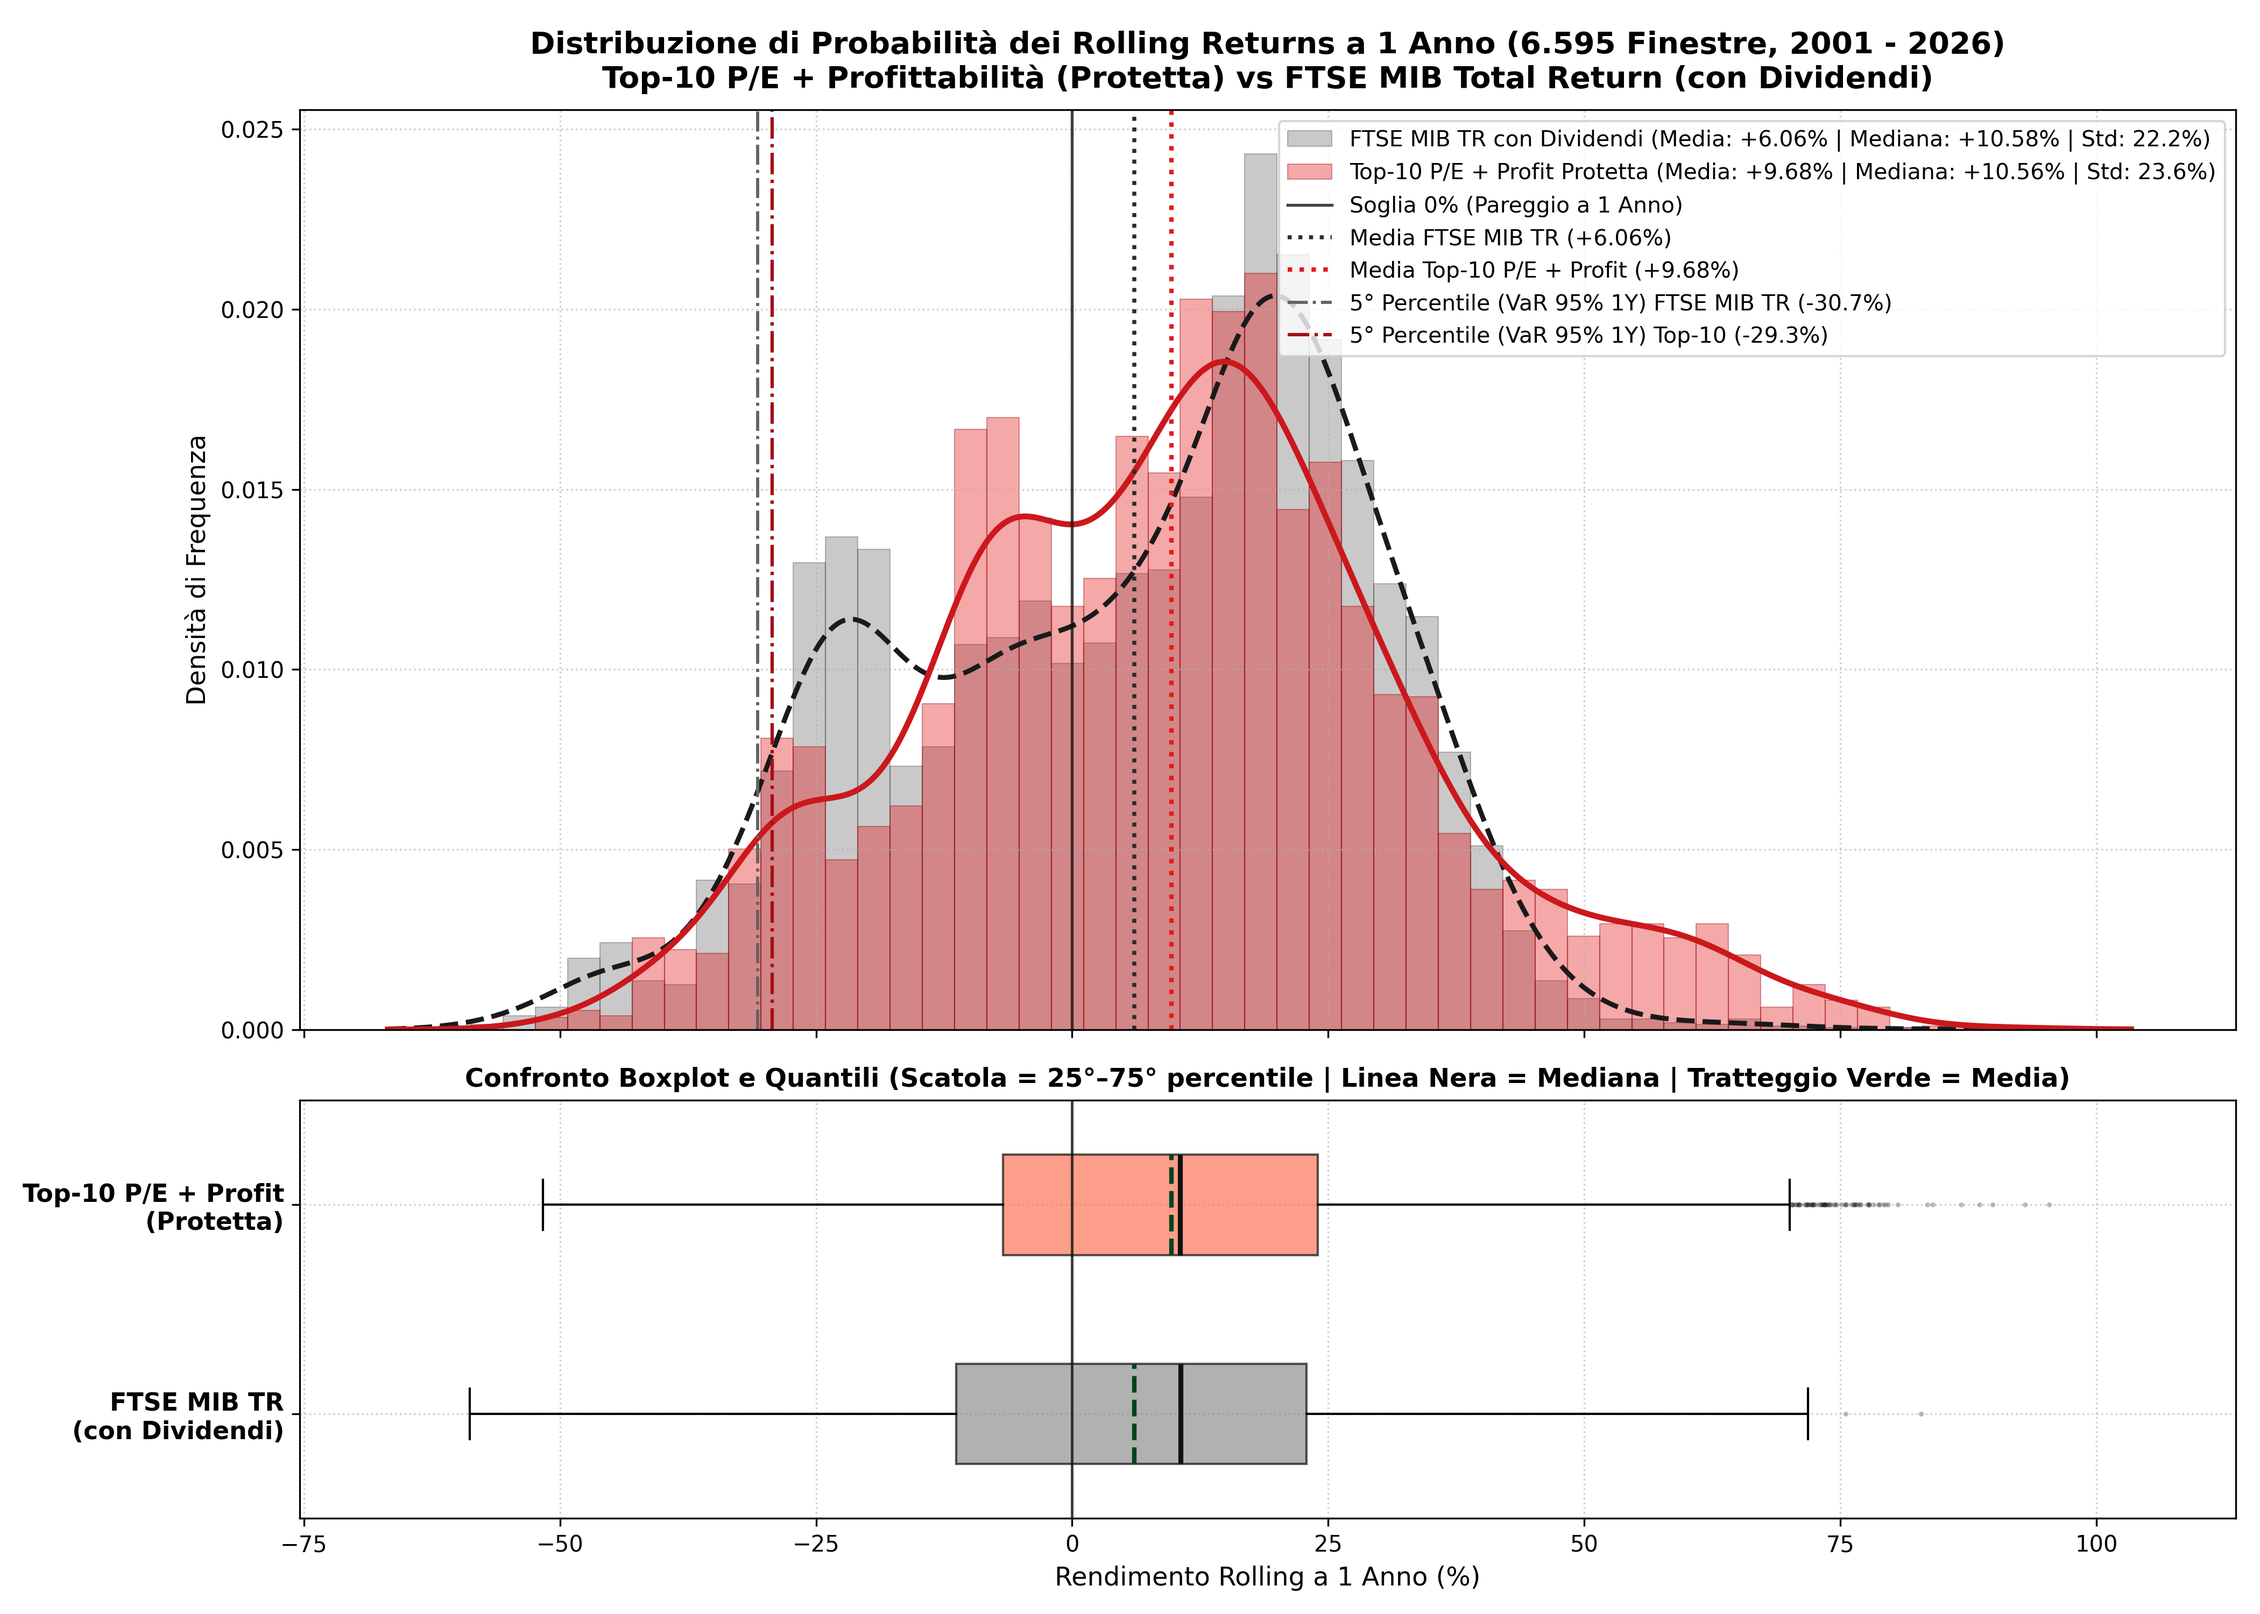
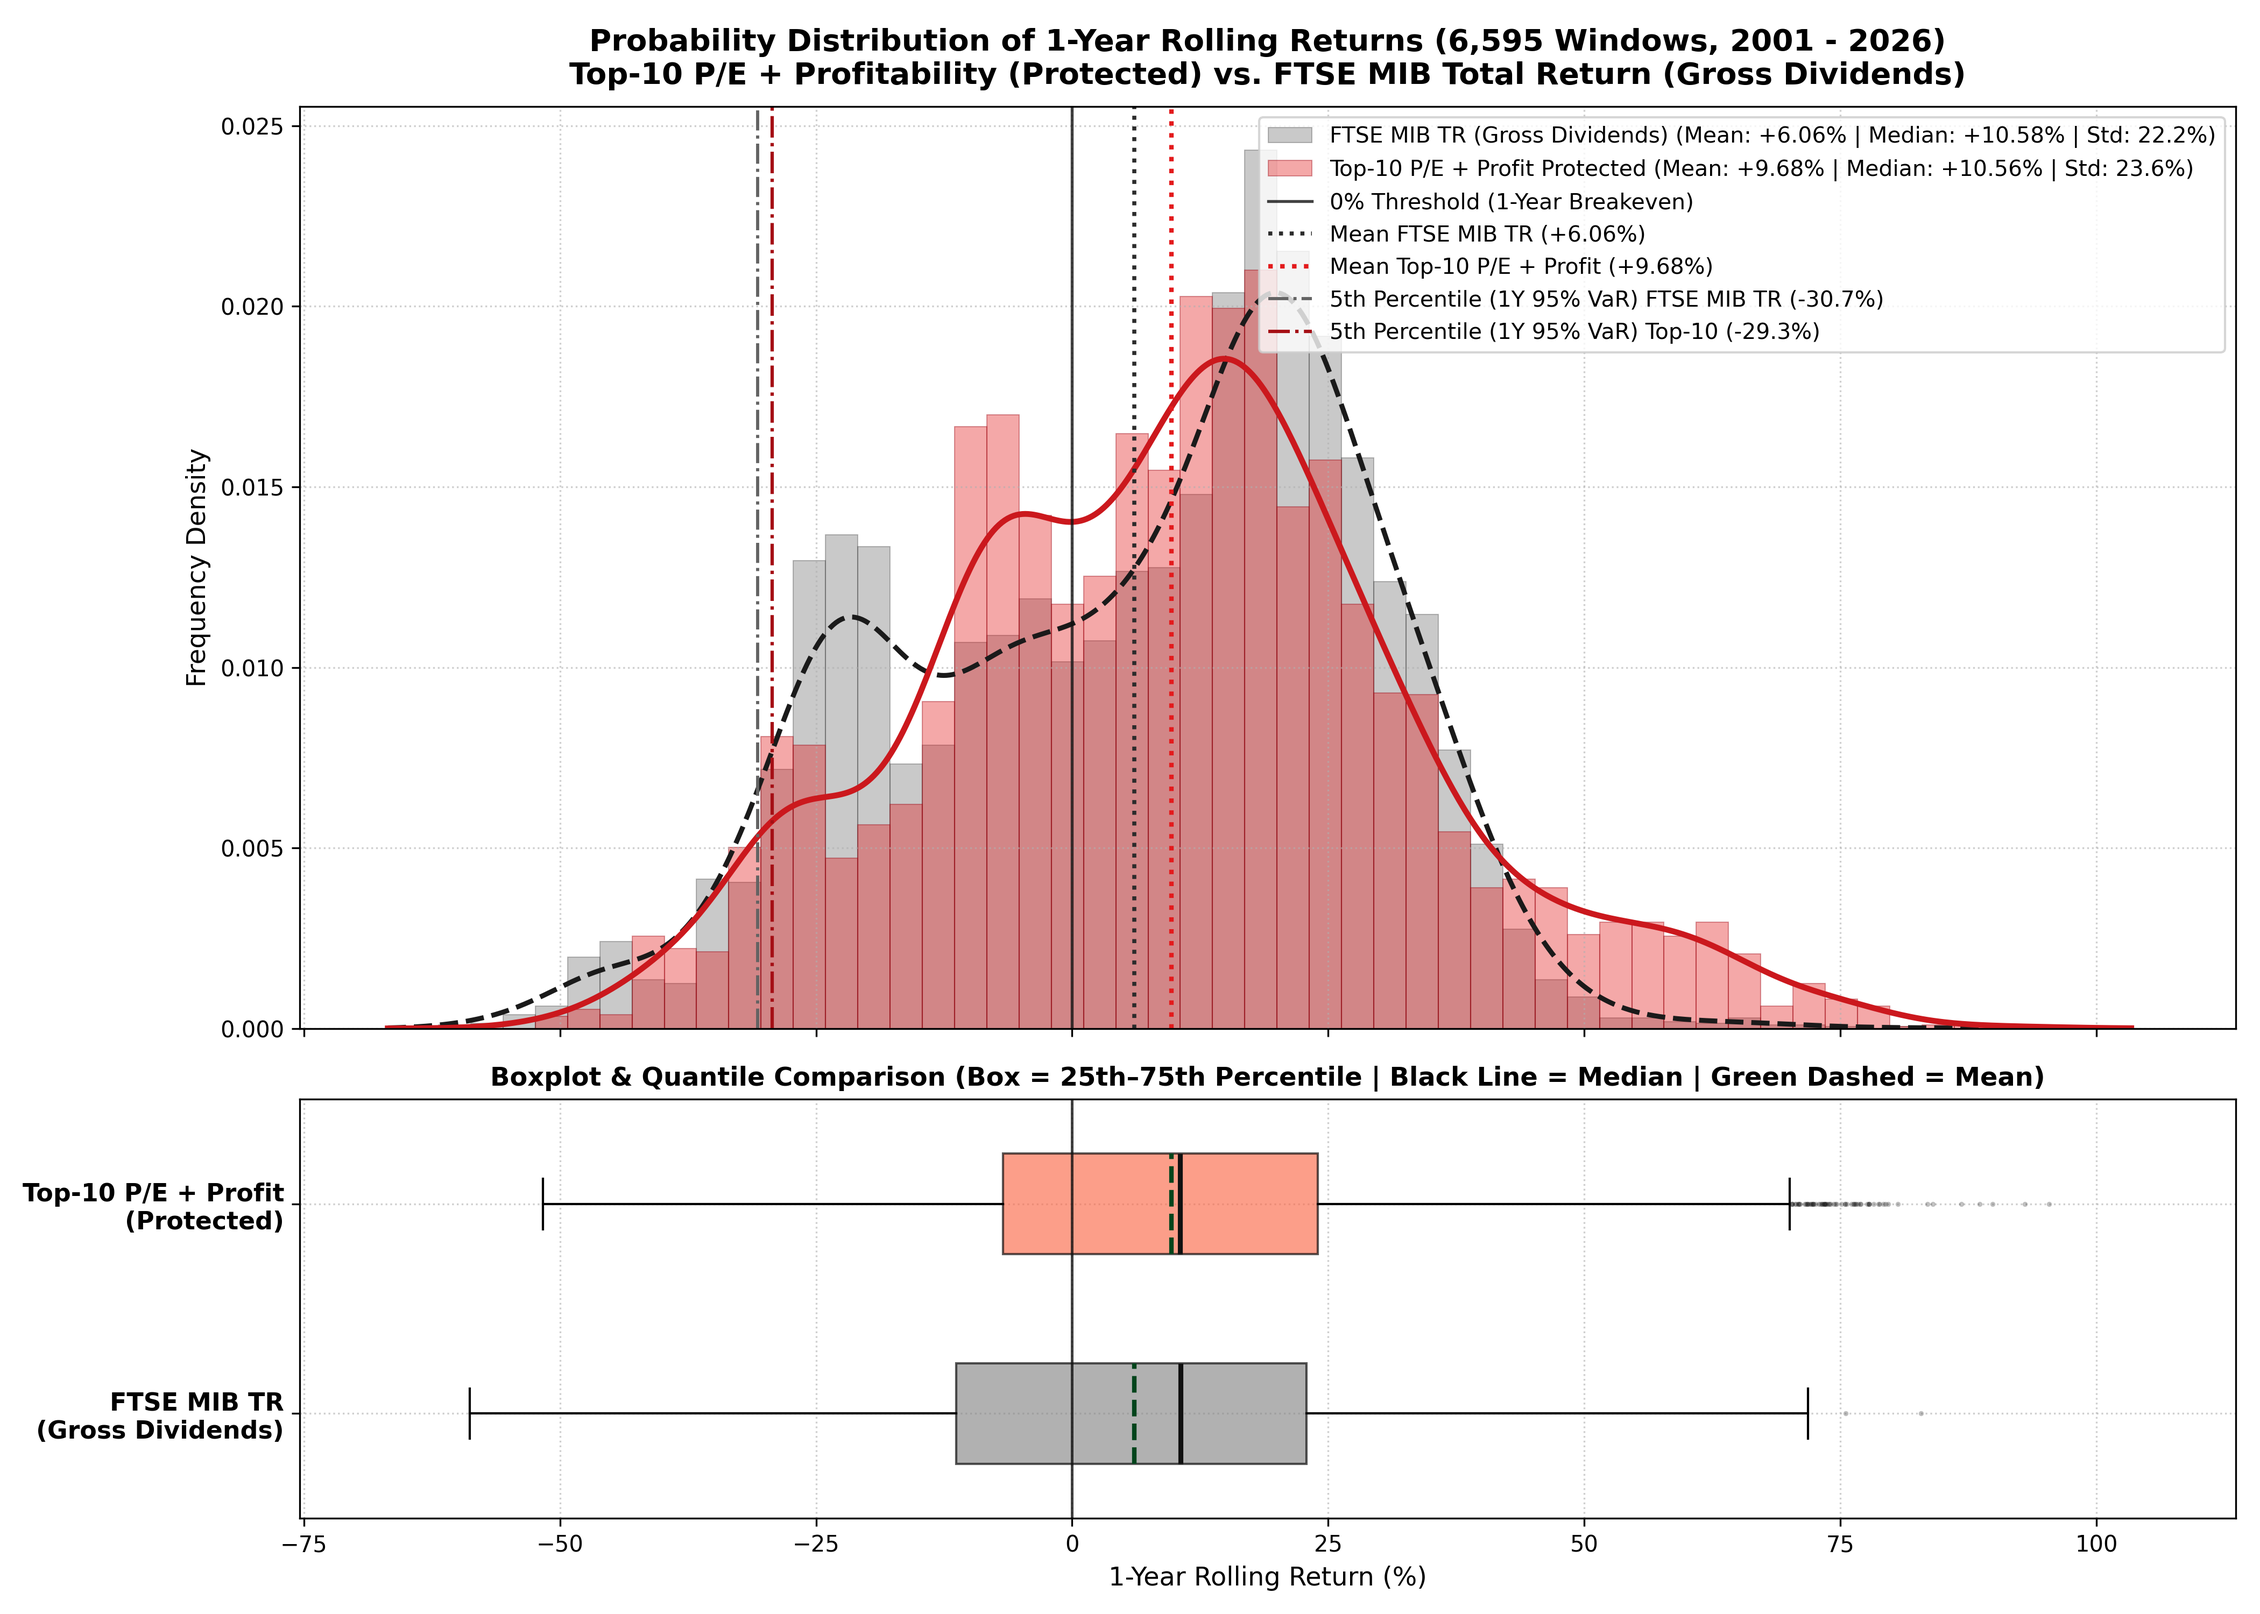
Translate all chart titles, legends and axis labels to English

diff --git a/scripts/06_plot_rolling_returns.py b/scripts/06_plot_rolling_returns.py
@@ -121,7 +121,7 @@ def main():
     ax1.plot(
         roll_bench.index,
         roll_bench.values,
-        label=f"FTSE MIB TR con Dividendi (Media 1Y: {mean_bench:+.1f}% | Finestre Positive: {pos_rate_bench:.1f}%)",
+        label=f"FTSE MIB TR (Gross Dividends) (1Y Mean: {mean_bench:+.1f}% | Positive Windows: {pos_rate_bench:.1f}%)",
         color="#2b2b2b",
         linewidth=1.6,
         linestyle="--",
@@ -130,24 +130,24 @@ def main():
     ax1.plot(
         roll_top10.index,
         roll_top10.values,
-        label=f"Top-10 P/E + Profit Protetta (Media 1Y: {mean_top10:+.1f}% | Finestre Positive: {pos_rate_top10:.1f}%)",
+        label=f"Top-10 P/E + Profit Protected (1Y Mean: {mean_top10:+.1f}% | Positive Windows: {pos_rate_top10:.1f}%)",
         color="#e31a1c",
         linewidth=2.2,
     )
 
     ax1.set_title(
-        "Rolling Returns a 1 Anno (252 Giorni): Top-10 P/E + Profittabilità vs FTSE MIB Total Return (2001 - 2026)",
+        "1-Year Rolling Returns (252 Trading Days): Top-10 Protected vs. FTSE MIB Total Return (2001 - 2026)",
         fontsize=13.5,
         fontweight="bold",
         pad=10,
     )
-    ax1.set_ylabel("Rendimento Rolling 1 Anno (%)", fontsize=11.5)
+    ax1.set_ylabel("1-Year Rolling Return (%)", fontsize=11.5)
     ax1.grid(True, linestyle=":", alpha=0.6)
     ax1.legend(loc="upper left", frameon=True, fontsize=10.5)
 
     # Panel 2: Rolling 1Y Excess Return (Spread = Top-10 - FTSE MIB TR)
     ax2.axhline(0.0, color="#222222", linewidth=1.1, linestyle="-")
-    ax2.axhline(mean_excess, color="#006d2c", linewidth=1.2, linestyle="--", label=f"Spread Medio 1Y: {mean_excess:+.2f}%/anno")
+    ax2.axhline(mean_excess, color="#006d2c", linewidth=1.2, linestyle="--", label=f"1Y Mean Spread: {mean_excess:+.2f}%/yr")
     ax2.plot(excess_1y.index, excess_1y.values, color="#1f78b4", linewidth=1.3, alpha=0.9)
     ax2.fill_between(
         excess_1y.index,
@@ -157,7 +157,7 @@ def main():
         color="#2ca02c",
         alpha=0.35,
         interpolate=True,
-        label=f"Top-10 batte FTSE MIB TR ({win_rate_vs_bench:.1f}% delle finestre 1Y)",
+        label=f"Top-10 beats FTSE MIB TR ({win_rate_vs_bench:.1f}% of 1Y windows)",
     )
     ax2.fill_between(
         excess_1y.index,
@@ -167,16 +167,16 @@ def main():
         color="#d62728",
         alpha=0.30,
         interpolate=True,
-        label=f"FTSE MIB TR batte Top-10 ({100.0 - win_rate_vs_bench:.1f}% delle finestre 1Y)",
+        label=f"FTSE MIB TR beats Top-10 ({100.0 - win_rate_vs_bench:.1f}% of 1Y windows)",
     )
 
     ax2.set_title(
-        f"Extra-Rendimento Rolling 1 Anno (Top-10 meno FTSE MIB TR) — Win Rate: {win_rate_vs_bench:.1f}%",
+        f"1-Year Rolling Excess Return (Top-10 minus FTSE MIB TR) — Win Rate: {win_rate_vs_bench:.1f}%",
         fontsize=12.5,
         fontweight="bold",
     )
-    ax2.set_xlabel("Data", fontsize=11.5)
-    ax2.set_ylabel("Spread Rolling 1Y (%)", fontsize=11.5)
+    ax2.set_xlabel("Date", fontsize=11.5)
+    ax2.set_ylabel("1Y Rolling Spread (%)", fontsize=11.5)
     ax2.grid(True, linestyle=":", alpha=0.6)
     ax2.legend(loc="upper left", frameon=True, fontsize=10)
 
@@ -210,7 +210,7 @@ def main():
         alpha=0.30,
         edgecolor="#2b2b2b",
         linewidth=0.5,
-        label=f"FTSE MIB TR con Dividendi (Media: {mean_bench:+.2f}% | Mediana: {roll_bench.median():+.2f}% | Std: {roll_bench.std():.1f}%)",
+        label=f"FTSE MIB TR (Gross Dividends) (Mean: {mean_bench:+.2f}% | Median: {roll_bench.median():+.2f}% | Std: {roll_bench.std():.1f}%)",
     )
     ax_hist.hist(
         roll_top10.values,
@@ -220,7 +220,7 @@ def main():
         alpha=0.38,
         edgecolor="#99000d",
         linewidth=0.5,
-        label=f"Top-10 P/E + Profit Protetta (Media: {mean_top10:+.2f}% | Mediana: {roll_top10.median():+.2f}% | Std: {roll_top10.std():.1f}%)",
+        label=f"Top-10 P/E + Profit Protected (Mean: {mean_top10:+.2f}% | Median: {roll_top10.median():+.2f}% | Std: {roll_top10.std():.1f}%)",
     )
 
     ax_hist.plot(x_grid, kde_bench, color="#1a1a1a", linewidth=2.2, linestyle="--")
@@ -232,20 +232,20 @@ def main():
     p95_top10 = float(np.percentile(roll_top10.values, 95))
     p95_bench = float(np.percentile(roll_bench.values, 95))
 
-    ax_hist.axvline(0.0, color="#111111", linewidth=1.3, linestyle="-", alpha=0.8, label="Soglia 0% (Pareggio a 1 Anno)")
-    ax_hist.axvline(mean_bench, color="#2b2b2b", linewidth=1.8, linestyle=":", label=f"Media FTSE MIB TR ({mean_bench:+.2f}%)")
-    ax_hist.axvline(mean_top10, color="#e31a1c", linewidth=2.0, linestyle=":", label=f"Media Top-10 P/E + Profit ({mean_top10:+.2f}%)")
-    ax_hist.axvline(p5_bench, color="#636363", linewidth=1.4, linestyle="-.", label=f"5° Percentile (VaR 95% 1Y) FTSE MIB TR ({p5_bench:+.1f}%)")
-    ax_hist.axvline(p5_top10, color="#a50f15", linewidth=1.5, linestyle="-.", label=f"5° Percentile (VaR 95% 1Y) Top-10 ({p5_top10:+.1f}%)")
+    ax_hist.axvline(0.0, color="#111111", linewidth=1.3, linestyle="-", alpha=0.8, label="0% Threshold (1-Year Breakeven)")
+    ax_hist.axvline(mean_bench, color="#2b2b2b", linewidth=1.8, linestyle=":", label=f"Mean FTSE MIB TR ({mean_bench:+.2f}%)")
+    ax_hist.axvline(mean_top10, color="#e31a1c", linewidth=2.0, linestyle=":", label=f"Mean Top-10 P/E + Profit ({mean_top10:+.2f}%)")
+    ax_hist.axvline(p5_bench, color="#636363", linewidth=1.4, linestyle="-.", label=f"5th Percentile (1Y 95% VaR) FTSE MIB TR ({p5_bench:+.1f}%)")
+    ax_hist.axvline(p5_top10, color="#a50f15", linewidth=1.5, linestyle="-.", label=f"5th Percentile (1Y 95% VaR) Top-10 ({p5_top10:+.1f}%)")
 
     ax_hist.set_title(
-        "Distribuzione di Probabilità dei Rolling Returns a 1 Anno (6.595 Finestre, 2001 - 2026)\n"
-        "Top-10 P/E + Profittabilità (Protetta) vs FTSE MIB Total Return (con Dividendi)",
+        "Probability Distribution of 1-Year Rolling Returns (6,595 Windows, 2001 - 2026)\n"
+        "Top-10 P/E + Profitability (Protected) vs. FTSE MIB Total Return (Gross Dividends)",
         fontsize=13.5,
         fontweight="bold",
         pad=10,
     )
-    ax_hist.set_ylabel("Densità di Frequenza", fontsize=11.5)
+    ax_hist.set_ylabel("Frequency Density", fontsize=11.5)
     ax_hist.grid(True, linestyle=":", alpha=0.6)
     ax_hist.legend(loc="upper right", frameon=True, fontsize=9.8)
 
@@ -268,13 +268,13 @@ def main():
 
     ax_box.axvline(0.0, color="#111111", linewidth=1.2, linestyle="-", alpha=0.8)
     ax_box.set_yticks([1, 2])
-    ax_box.set_yticklabels(["FTSE MIB TR\n(con Dividendi)", "Top-10 P/E + Profit\n(Protetta)"], fontsize=11, fontweight="bold")
+    ax_box.set_yticklabels(["FTSE MIB TR\n(Gross Dividends)", "Top-10 P/E + Profit\n(Protected)"], fontsize=11, fontweight="bold")
     ax_box.set_title(
-        "Confronto Boxplot e Quantili (Scatola = 25°–75° percentile | Linea Nera = Mediana | Tratteggio Verde = Media)",
+        "Boxplot & Quantile Comparison (Box = 25th–75th Percentile | Black Line = Median | Green Dashed = Mean)",
         fontsize=11.5,
         fontweight="bold",
     )
-    ax_box.set_xlabel("Rendimento Rolling a 1 Anno (%)", fontsize=11.5)
+    ax_box.set_xlabel("1-Year Rolling Return (%)", fontsize=11.5)
     ax_box.grid(True, linestyle=":", alpha=0.6)
 
     # Print quantile table

diff --git a/scripts/05_run_top10_pe_profitability.py b/scripts/05_run_top10_pe_profitability.py
@@ -236,43 +236,53 @@ def main():
 
     # Plot comprehensive visual comparison
     all_nav = pd.DataFrame(nav_dict).dropna()
+    nav_name_map = {
+        "Top-10 P/E + Profit (Protetta)": "Top-10 P/E + Profit (Protected)",
+        "Top-10 P/E + ROE (Naive)": "Top-10 P/E + ROE (Naive)",
+        "Momentum + Low Vol": "Momentum + Low Vol",
+        "Min Variance (GMV)": "Min Variance (GMV)",
+        "Equal Weight (1/N)": "Equal Weight (1/N)",
+        "FTSE MIB TR (con Dividendi)": "FTSE MIB TR (Gross Dividends)",
+        "FTSE MIB Price (no Div)": "FTSE MIB Price (No Dividends)",
+    }
+    all_nav = all_nav.rename(columns=nav_name_map)
     fig, (ax1, ax2) = plt.subplots(2, 1, figsize=(14, 10), sharex=True, gridspec_kw={"height_ratios": [2.4, 1.2]})
 
     colors = {
-        "Top-10 P/E + Profit (Protetta)": "#e31a1c",
+        "Top-10 P/E + Profit (Protected)": "#e31a1c",
         "Top-10 P/E + ROE (Naive)": "#fb9a99",
         "Momentum + Low Vol": "#1f77b4",
         "Min Variance (GMV)": "#2ca02c",
         "Equal Weight (1/N)": "#9467bd",
-        "FTSE MIB TR (con Dividendi)": "#111111",
-        "FTSE MIB Price (no Div)": "#7f7f7f",
+        "FTSE MIB TR (Gross Dividends)": "#111111",
+        "FTSE MIB Price (No Dividends)": "#7f7f7f",
     }
 
     for col in all_nav.columns:
-        lw = 2.8 if "Protetta" in col else (2.3 if "FTSE MIB TR" in col or col in ("Momentum + Low Vol", "Min Variance (GMV)") else 1.4)
+        lw = 2.8 if "Protected" in col else (2.3 if "FTSE MIB TR" in col or col in ("Momentum + Low Vol", "Min Variance (GMV)") else 1.4)
         ls = "--" if "FTSE MIB TR" in col else (":" if "FTSE MIB Price" in col else ("-." if "Naive" in col else "-"))
         ax1.plot(all_nav.index, all_nav[col], label=col, color=colors.get(col, "gray"), linewidth=lw, linestyle=ls)
 
     ax1.set_title(
-        "Strategia Top-10 (P/E + Profittabilità + Filtro Anti-Value-Trap) vs FTSE MIB (2000 - 2026)\n"
-        f"Universo Small & Mid Cap (<500M €) Survivorship-Bias-Free ({prices_matrix.shape[1]} società incluse fallite e OPA)",
+        "Top-10 Strategy (P/E + Profitability + Anti-Value-Trap) vs. FTSE MIB (2000 - 2026)\n"
+        f"Survivorship-Bias-Free Point-in-Time Small & Mid Cap Universe (< €500M) — {prices_matrix.shape[1]} stocks (incl. bankruptcies & takeovers)",
         fontsize=13,
         fontweight="bold"
     )
-    ax1.set_ylabel("Valore Portafoglio (Base = 100)", fontsize=12)
+    ax1.set_ylabel("Portfolio Value (Base = 100)", fontsize=12)
     ax1.grid(True, linestyle=":", alpha=0.6)
     ax1.legend(loc="upper left", frameon=True, fontsize=10)
 
     for col in all_nav.columns:
         peak = all_nav[col].cummax()
         dd = (all_nav[col] - peak) / peak * 100.0
-        lw = 2.4 if "Protetta" in col else 1.4
+        lw = 2.4 if "Protected" in col else 1.4
         ls = "--" if "FTSE MIB" in col else ("-." if "Naive" in col else "-")
         ax2.plot(all_nav.index, dd, label=col, color=colors.get(col, "gray"), linewidth=lw, linestyle=ls)
 
-    ax2.set_title("Drawdown Storico (%)", fontsize=12, fontweight="bold")
-    ax2.set_xlabel("Data", fontsize=12)
-    ax2.set_ylabel("Drawdown %", fontsize=12)
+    ax2.set_title("Historical Drawdown (%)", fontsize=12, fontweight="bold")
+    ax2.set_xlabel("Date", fontsize=12)
+    ax2.set_ylabel("Drawdown (%)", fontsize=12)
     ax2.grid(True, linestyle=":", alpha=0.6)
 
     plt.tight_layout()
